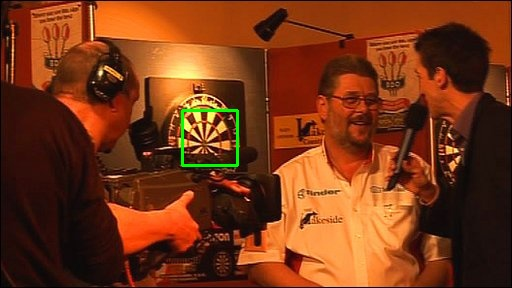
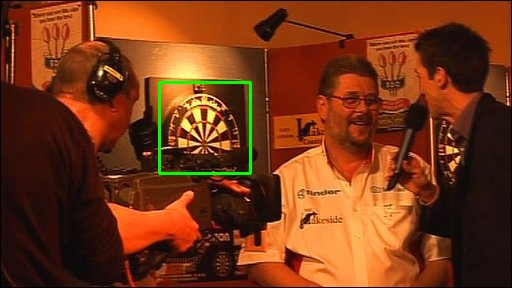
line detector should never increase true negative rate

Changed region(s): [[0.2812, 0.25, 0.5, 0.625]]

diff --git a/ipcv_assignment_1/util.cpp b/ipcv_assignment_1/util.cpp
@@ -5,7 +5,7 @@
 #include "header/hough.h"
 #include "header/util.h"
 
-vector<Rect> sliding_window_classification(Mat &src, CascadeClassifier model){
+vector<Rect> sliding_window_classification(Mat &src, CascadeClassifier model) {
     int min_window = 40;
     int max_window = src.rows;
     vector<Rect> ret;
@@ -41,13 +41,59 @@ vector<Rect> sliding_window_classification(Mat &src, CascadeClassifier model){
     return ret;
 }
 
+vector<Vec2f> getCentral(Mat sub, vector<Vec2f> lines) {
+    float diag = sqrt(pow(sub.rows, 2) + pow(sub.cols, 2));
 
+    vector<Vec2f> centralLines;
+    for (Vec2f l : lines) {
+        float rho = l.val[0];
+        float theta = l.val[1];
 
+        Point2f o1, p1;
+        float a = cos(theta), b = sin(theta);
+        float x0 = a * rho, y0 = b * rho;
+        o1.x = cvRound(x0 + 1000 * (-b));
+        o1.y = cvRound(y0 + 1000 * (a));
+        p1.x = cvRound(x0 - 1000 * (-b));
+        p1.y = cvRound(y0 - 1000 * (a));
 
+        float factor = 1 / 4.3;
 
+        if (rho < diag * factor || rho > diag * (1 - factor)) {
+            continue;
+        } else {
+            line(sub, o1, p1, Scalar(0, 0, 255), 1, CV_AA);
+            centralLines.insert(centralLines.end(), l);
+        }
+    }
 
+//    imshow("detected lines", sub);
+//    waitKey(0);
 
+    return centralLines;
+}
 
+bool diverseDegree(Mat sub, vector<Vec2f> lines) {
+    float totalDifference = 0;
+
+    int n = 0;
+    for (Vec2f line : lines) {
+        for (Vec2f l : lines) {
+            if (fabs(line.val[0] - l.val[0]) < 1e-6 && fabs(line.val[1] - l.val[1]) < 1e-6) {
+                continue;
+            } else {
+                n++;
+                totalDifference += fabs(line.val[1] * 180 / M_PI - l.val[1] * 180 / M_PI);
+            }
+        }
+    }
+
+    float avg = totalDifference / n;
+
+    cout << "degree difference avg" << avg << endl;
+
+    return avg > 8;
+}
 
 vector<Rect> line_intersection(const Mat &src, vector<Rect> &circles) {
     vector<Rect> result;
@@ -64,16 +110,23 @@ vector<Rect> line_intersection(const Mat &src, vector<Rect> &circles) {
 //        waitKey(0);
 
         // detect lines in a sub-region
-        vector<Vec2f> lines = hough_line(sub, it->width / 2.33, 12);
+        vector<Vec2f> lines = hough_line(sub, it->width / 3.4, 25);
 
-        if (lines.size() < MIN_LINES) { // only one line detected, it's not a dartboard
+        vector<Vec2f> centralLines = getCentral(sub, lines);
+
+        if (!diverseDegree(sub, centralLines)) {
+            cout << "degree difference too small" << endl;
+            continue;
+        }
+
+        if (centralLines.size() < MIN_LINES) { // only one line detected, it's not a dartboard
             continue;
         }
 
         // find all points of intersection in a sub-region
         vector<Point2f> intersections;
 
-        for (vector<Vec2f>::iterator lineIt1 = lines.begin(); lineIt1 != lines.end(); lineIt1++) {
+        for (vector<Vec2f>::iterator lineIt1 = centralLines.begin(); lineIt1 != centralLines.end(); lineIt1++) {
             float rho1 = lineIt1->val[0];
             float theta1 = lineIt1->val[1];
 
@@ -87,7 +140,7 @@ vector<Rect> line_intersection(const Mat &src, vector<Rect> &circles) {
             p1.x = cvRound(x0 - 1000 * (-b));
             p1.y = cvRound(y0 - 1000 * (a));
 
-            for (vector<Vec2f>::iterator lineIt2 = lines.begin(); lineIt2 != lines.end(); lineIt2++) {
+            for (vector<Vec2f>::iterator lineIt2 = centralLines.begin(); lineIt2 != centralLines.end(); lineIt2++) {
                 float rho2 = lineIt2->val[0];
                 float theta2 = lineIt2->val[1];
 
@@ -125,12 +178,14 @@ vector<Rect> line_intersection(const Mat &src, vector<Rect> &circles) {
         }
 
         Rect2f center;
-        center.x = (float) sub.cols * 3 / 10;
-        center.y = (float) sub.rows * 3 / 10;
-        center.width = (float) sub.cols * 4 / 10;
-        center.height = (float) sub.rows * 4 / 10;
+        center.x = (float) sub.cols * 2.95 / 10;
+        center.y = (float) sub.rows * 2.95 / 10;
+        center.width = (float) sub.cols * 4.3 / 10;
+        center.height = (float) sub.rows * 4.3 / 10;
 
         int numInCenter = 0;
+
+//        cout << center << endl;
 
         // it means the detection is not very accurate so we might have several points of intersection
         // check if most of points are located inside the center area of the image

diff --git a/ipcv_assignment_1/calculations.cpp b/ipcv_assignment_1/calculations.cpp
@@ -5,6 +5,43 @@
 #include "header/hough.h"
 #include "header/util.h"
 
+vector<Rect> exlude_intersect(vector<Rect> boards) {
+    vector<Rect> result;
+    vector<Rect> toExclude;
+
+    for (Rect board : boards) {
+        for (Rect b : boards) {
+            if (board.x == b.x && board.y == b.y && board.width == b.width && board.height == b.height) {
+                continue;
+            }
+
+            if ((board & b).area() > 0) {
+                if (b.area() < board.area()) {
+                    toExclude.insert(toExclude.end(), b);
+                }
+            }
+
+        }
+    }
+
+
+    for (Rect board : boards) {
+        bool exclude = false;
+        for (Rect b : toExclude) {
+            if (board.x == b.x && board.y == b.y && board.width == b.width && board.height == b.height) {
+                exclude = true;
+                break;
+            }
+        }
+
+        if (!exclude) {
+            result.insert(result.end(), board);
+        }
+    }
+
+    return result;
+}
+
 vector<Rect> detect_dartboards(Mat image, CascadeClassifier model) {
     vector<Rect> ret;
     vector<Rect> circles = hough_circle(image, 12, 40, 80);
@@ -25,11 +62,11 @@ vector<Rect> detect_dartboards(Mat image, CascadeClassifier model) {
                 int avg_y = 0;
                 int avg_height = 0;
                 int avg_width = 0;
-                for (Rect b : boards){
+                for (Rect b : boards) {
                     avg_x += b.x;
                     avg_y += b.y;
                     avg_height += b.height;
-                    avg_width += b. width;
+                    avg_width += b.width;
                 }
                 avg_x /= boards.size();
                 avg_y /= boards.size();
@@ -39,7 +76,7 @@ vector<Rect> detect_dartboards(Mat image, CascadeClassifier model) {
                 // add the rects together
 
 
-                Rect rect(avg_x -10 + r.x, avg_y + r.y -10, avg_width+10, avg_height+10);
+                Rect rect(avg_x - 10 + r.x, avg_y + r.y - 10, avg_width + 10, avg_height + 10);
                 det_boards.emplace_back(rect);
             }
 
@@ -52,12 +89,11 @@ vector<Rect> detect_dartboards(Mat image, CascadeClassifier model) {
     }
 
     // filter by line intersection
-    vector<Rect> finalResult = line_intersection(image, det_boards);
-    if(finalResult.size() == 0){
-        return det_boards;
-    }
+    det_boards = line_intersection(image, det_boards);
 
-    return finalResult;
+    det_boards = exlude_intersect(det_boards);
+
+    return det_boards;
 }
 
 

diff --git a/ipcv_assignment_1/hough.cpp b/ipcv_assignment_1/hough.cpp
@@ -231,6 +231,8 @@ vector<Rect> hough_circle(const Mat &src, int threshold, int minRadius, int maxR
         det_circles.emplace_back(boundingRect(contours[i]));
     }
 
+//    imshow("detected circles", src);
+//    waitKey(0);
 
     return det_circles;
 }
@@ -282,17 +284,17 @@ vector<Vec2f> hough_line(const Mat &src, float threshold, int delta) {
     for (int rho = 0; rho < diag; rho++) {
         for (int thetaDegree = 0; thetaDegree < 361; thetaDegree++) {
             if (votes[rho][thetaDegree] > threshold) {
-                Point pt1, pt2;
                 double theta = thetaDegree * M_PI / 180;
-                double a = cos(theta), b = sin(theta);
-                double x0 = a * rho, y0 = b * rho;
-                pt1.x = cvRound(x0 + 1000 * (-b));
-                pt1.y = cvRound(y0 + 1000 * (a));
-                pt2.x = cvRound(x0 - 1000 * (-b));
-                pt2.y = cvRound(y0 - 1000 * (a));
-                line(src, pt1, pt2, Scalar(0, 0, 255), 1, CV_AA);
-
                 lines.insert(lines.end(), Vec2f(rho, (float) theta));
+
+//                Point pt1, pt2;
+//                double a = cos(theta), b = sin(theta);
+//                double x0 = a * rho, y0 = b * rho;
+//                pt1.x = cvRound(x0 + 1000 * (-b));
+//                pt1.y = cvRound(y0 + 1000 * (a));
+//                pt2.x = cvRound(x0 - 1000 * (-b));
+//                pt2.y = cvRound(y0 - 1000 * (a));
+//                line(src, pt1, pt2, Scalar(0, 0, 255), 1, CV_AA);
 //                printf("%d %d %d\n", rho, thetaDegree, hough_space.at<int>(rho, thetaDegree));
             }
         }

diff --git a/ipcv_assignment_1/header/util.h b/ipcv_assignment_1/header/util.h
@@ -4,8 +4,8 @@
 
 #ifndef COMS30121_ASSIGNMENT_UTIL_H
 
-#define LIMIT_PERCENTAGE_OF_POINTS .6
-#define MIN_LINES 5
+#define LIMIT_PERCENTAGE_OF_POINTS .19
+#define MIN_LINES 1
 
 vector<Rect> line_intersection(const Mat &src, vector<Rect> &circles);
 vector<Rect> sliding_window_classification(Mat &src, CascadeClassifier model);
